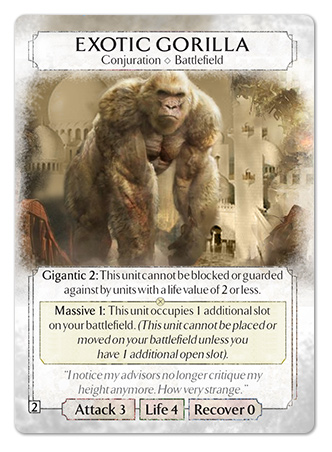
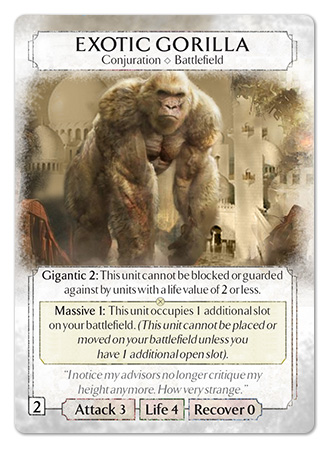
Fixed outdated images for Tolliver cards, and Exotic Gorilla's effect text

diff --git a/migrations/versions/603a770a8941_fix_exotic_gorilla.py b/migrations/versions/603a770a8941_fix_exotic_gorilla.py
@@ -1,0 +1,45 @@
+"""Fix Exotic Gorilla
+
+Revision ID: 603a770a8941
+Revises: c64b5f213a6f
+Create Date: 2020-02-01 15:28:24.409638
+
+"""
+import json
+
+from alembic import op
+import sqlalchemy as sa
+
+
+# revision identifiers, used by Alembic.
+revision = '603a770a8941'
+down_revision = 'c64b5f213a6f'
+branch_labels = None
+depends_on = None
+
+
+def upgrade():
+    connection = op.get_bind()
+    # Used an old image for the text reference and need to update it
+    card = connection.execute(
+        sa.text('SELECT id, json FROM card WHERE stub = :stub'),
+        stub='exotic-gorilla'
+    ).fetchone()
+    if card:
+        card_json = json.loads(card['json'])
+        card_json['text'][1]['name'] = 'Massive 1'
+        card_text = []
+        for effect in card_json['text']:
+            if 'name' in effect:
+                card_text.append(effect['name'])
+            card_text.append(effect['text'].replace('[[', '').replace(']]', ''))
+        connection.execute(
+            sa.text('UPDATE card SET json = :json, text = :text WHERE id = :id'),
+            json=json.dumps(card_json, separators=(',', ':'), sort_keys=True),
+            text=' '.join(card_text),
+            id=card['id']
+        )
+
+
+def downgrade():
+    pass
